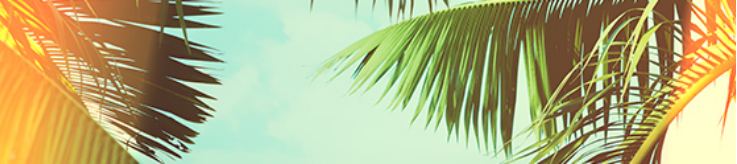
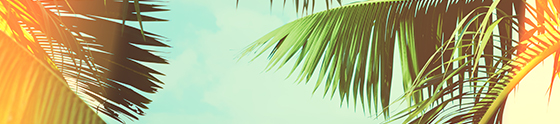
Pictures with the correct width and height

diff --git a/css/main-section-1.css b/css/main-section-1.css
@@ -10,7 +10,7 @@
 
 #main-section-1-pictures-frame {
     display: flex;
-    min-width: 1300px;
+    max-width: 1142px;
     margin-left: auto;
     margin-right: auto;
     border-style: solid;
@@ -30,8 +30,8 @@ img {
     border-style: solid;
     border-width: 5px;
 	background-color: white;
-	width: 625px;
-	height: 700px;	
+	width: 560px;
+    height: 599px;
 }
 
 
@@ -40,59 +40,59 @@ img {
     border-style: solid;
     border-width: 5px;
 	background-color: white;
-	width: 625px;
-	height: 700px;
+	width: 560px;
+    height: 599px;
     margin-right: 0px;
     flex-wrap: wrap;
 }
 
 #large-picture-frame-right-upper-part{
     display: flex;
-    height: 478px;
-    width: 625px;
+    height: 455px;
+    width: 560px;
     justify-content: space-between;
 }
 
 #semilarge-picture-frame {
     display: flex;
-    height: 478px;
-    width: 284px;  
+    width: 270px;
+    height: 455px;  
 }
 
 #small-pictures-frame {
     display: flex;
     flex-direction: column;
     justify-content: space-between;
-    height: 478px;
-    width: 284px;
+    height: 455px;
+    width: 270px;
     
 }
 
 #small-picture-frame-1 {
     display: flex;
-    height: 230px;
-    width: 284px;
+    width: 270px;
+    height: 218px;
 }
 
 
 #small-picture-frame-2 {
     display: flex;
-    height: 230px;
-    width: 284px;
+    width: 270px;
+    height: 218px;
 }
 
 #large-picture-frame-right-lower-part {
     display: flex;
     align-self: flex-end;
-    width: 625px;
-    height: 150px;
+    width: 560px;
+    height: 124px;
     
 }
 
 #bottom-picture-frame {
     display:flex;
-    width: 625px;
-    height: 150px;
+    width: 560px;
+    height: 124px;
 }
 
 #main-section-1-buttons-frame {
@@ -109,10 +109,14 @@ img {
   	display: flex;
     border-style: solid;
     border-width: 5px;
-	background-color: white;
+    justify-content: center;
+	background-color: #1e5a62;
 	width: 625px;
 	height: 100px;
-    
+}
+
+#large-button-left-text {
+ font-family: apercu-regular, sans-serif;   
 }
 
 #large-button-right {

diff --git a/css/topbar.css b/css/topbar.css
@@ -10,13 +10,12 @@
 #top-bar-frame {
     display: flex;
     background-color: white;
-    color: white;
-    height: 100px;
-    min-width: 1300px;
+    max-width: 1142px;
+    max-height: 83px;
     margin-left: auto;
     margin-right: auto;
-    /*justify-content: center;*/
     position: relative;
+   
 }
 
 #logo {

diff --git a/index.html b/index.html
@@ -96,6 +96,7 @@
            
             <div id="main-section-1-buttons-frame">
                 <div id="large-button-left">
+                    <p id="large-button-left-text">AVD. SOLSIDEN KJØPESENTER</p>
                 </div>
                 <div id="large-button-right">
                 </div>
